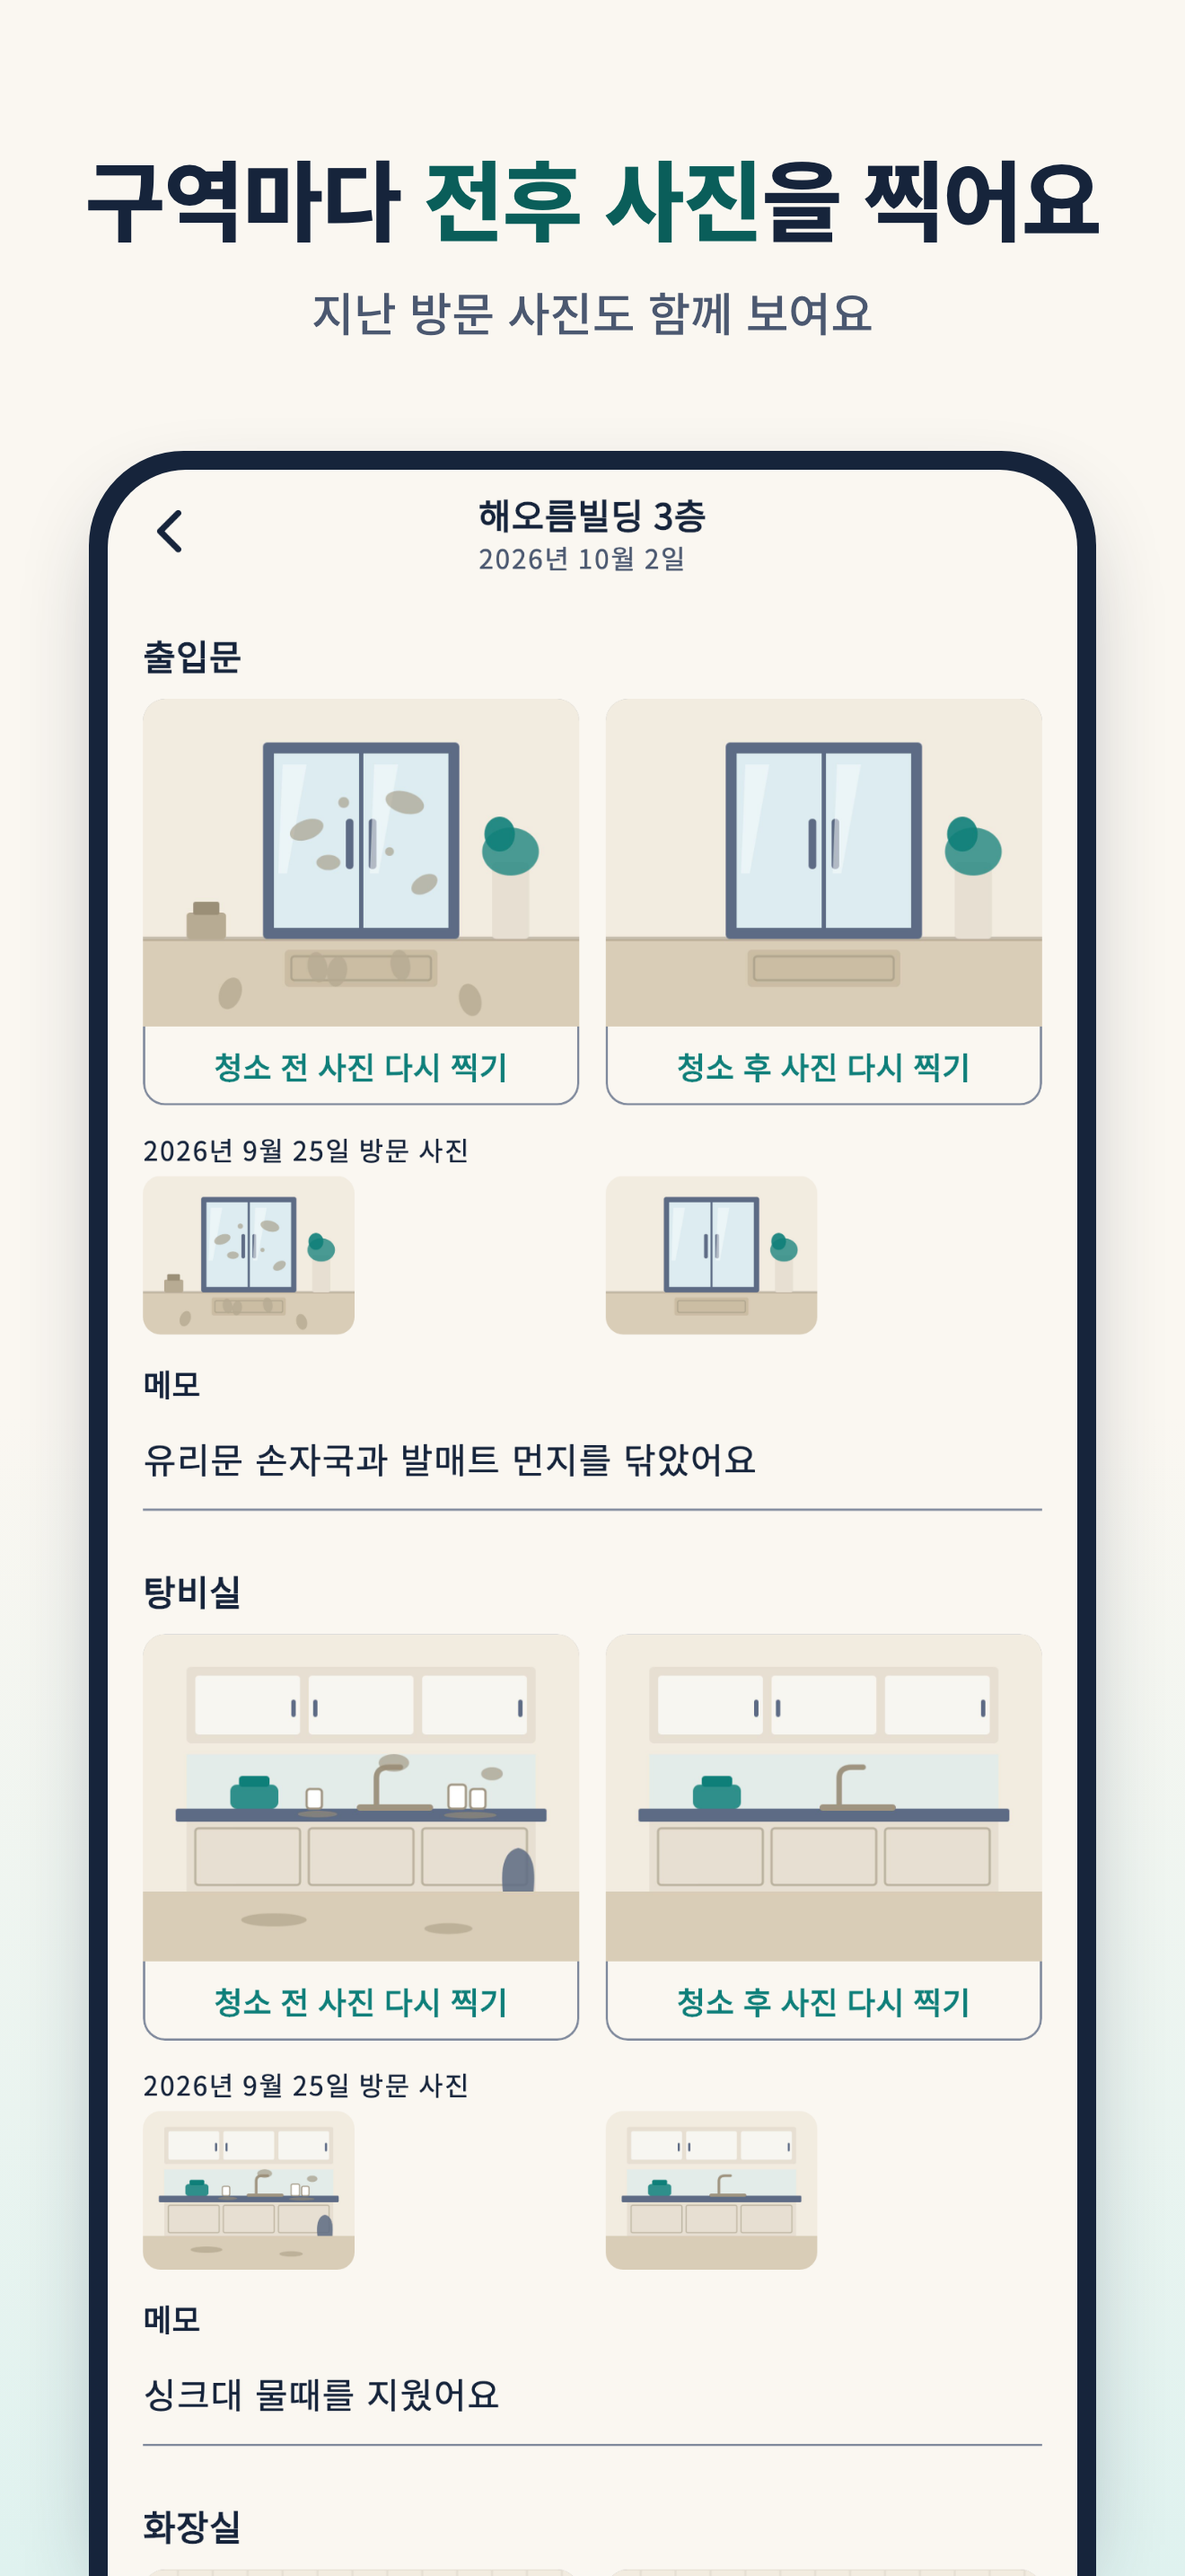
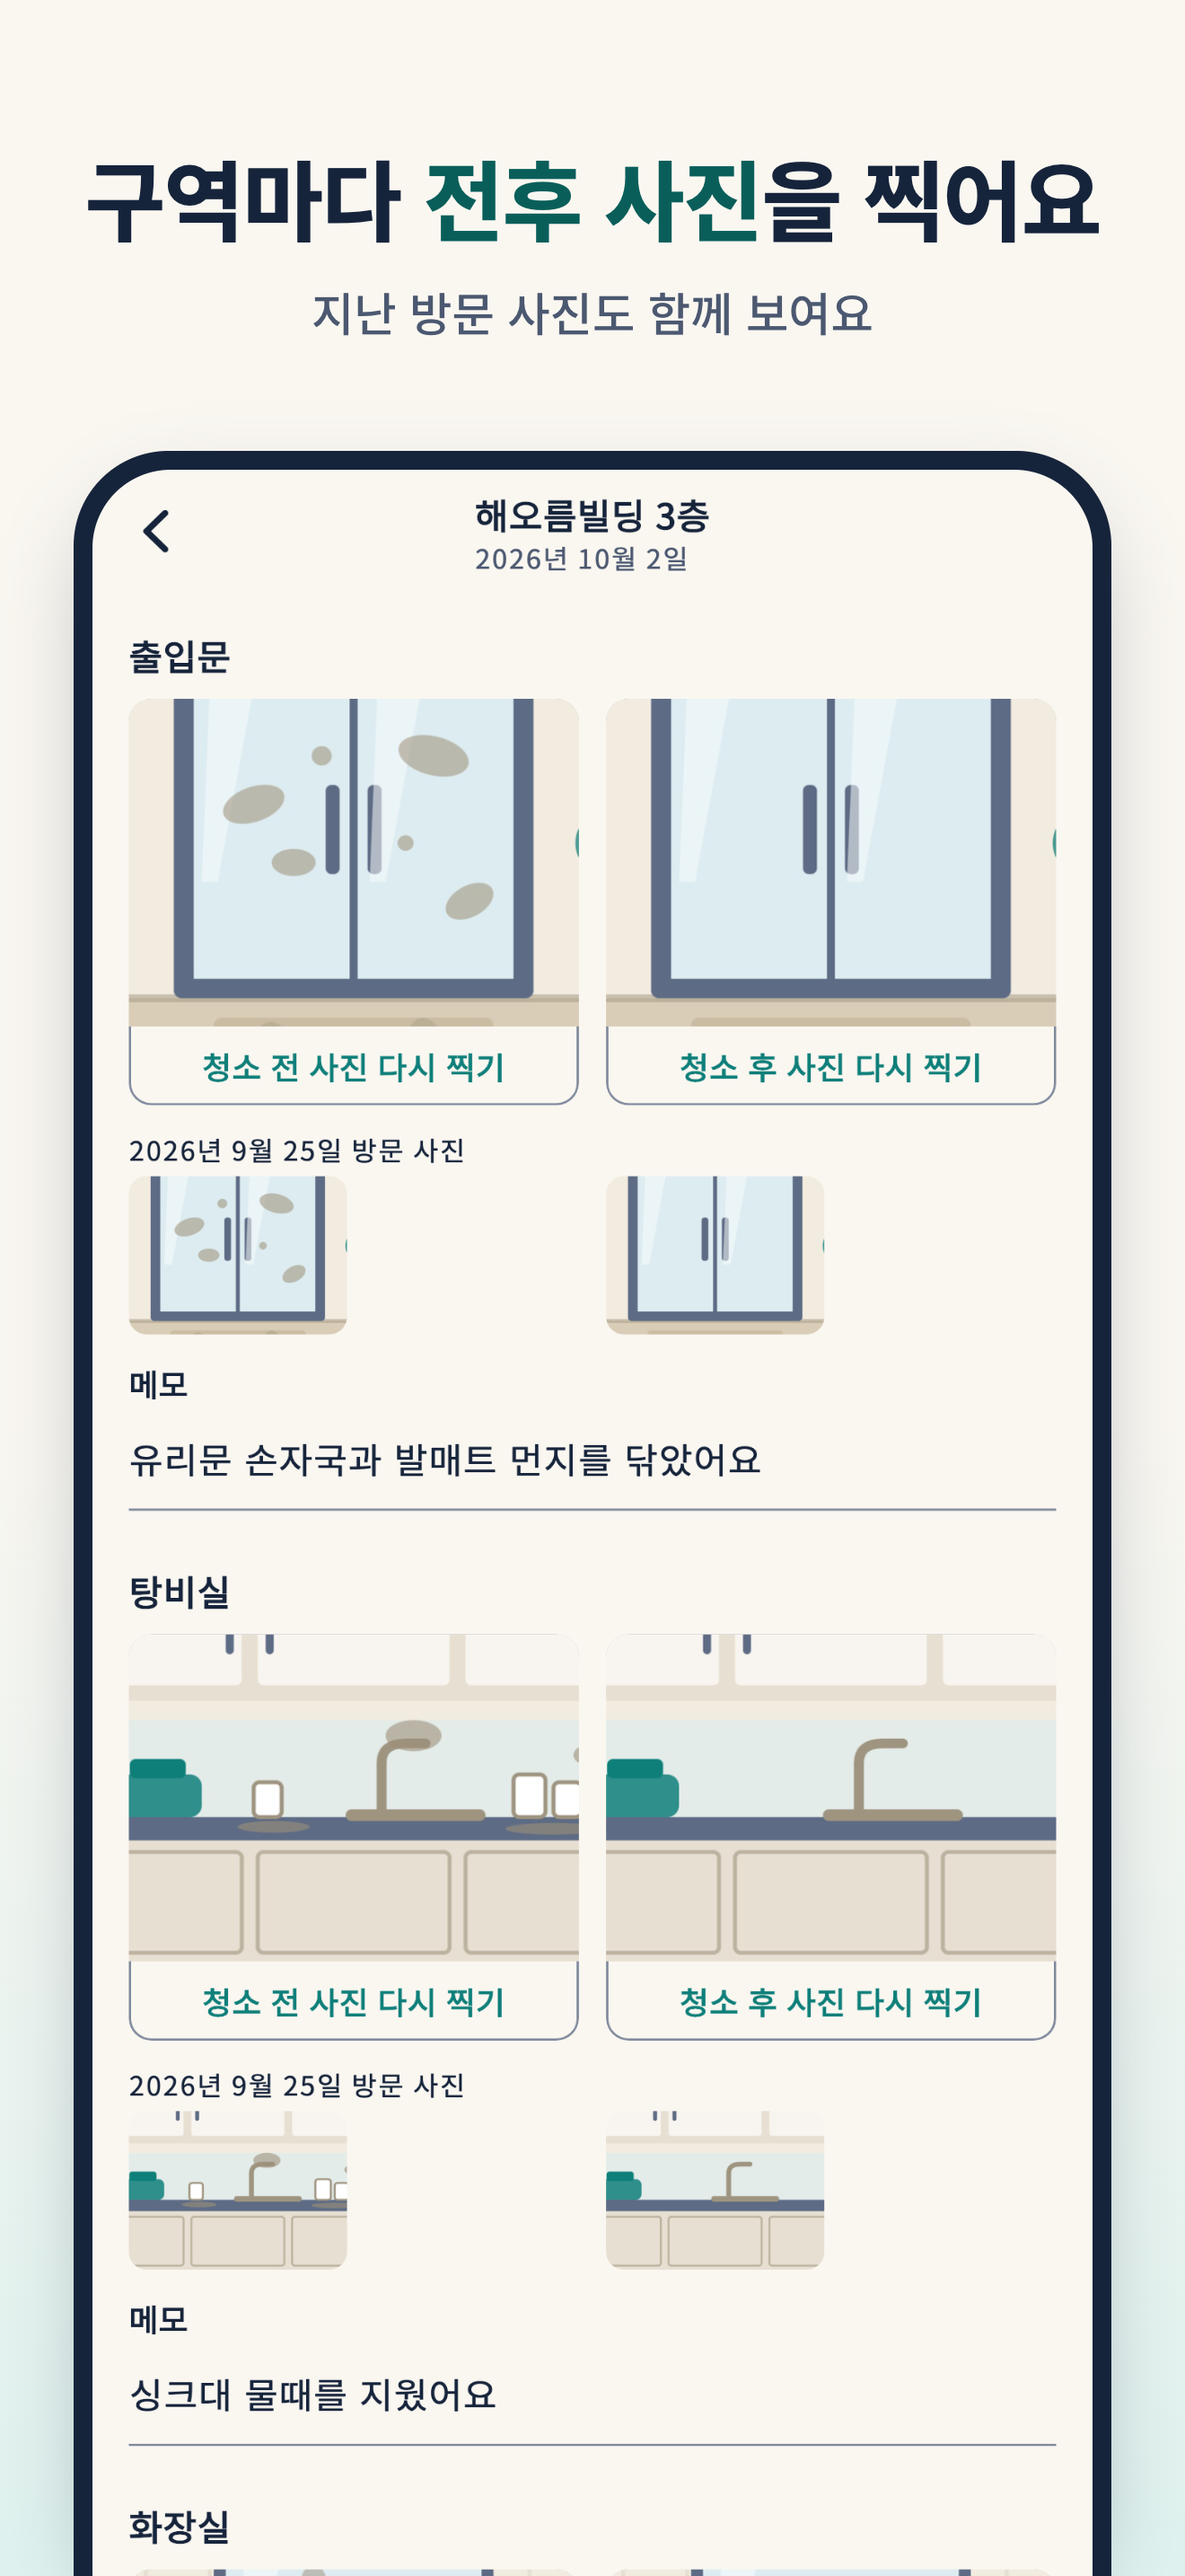
chore(store): render portrait fixture photos for the store screenshots
render.sh now shoots the fixture photos at 900x1200, as a phone camera
takes them, and the slice of the SVG keeps the middle of each room. The
feature graphic draws its two cards from photos.html in place of the
JPEGs, so it keeps the 4:3 room.

Only the capture and the report screenshots changed in content. The client
screenshots and the feature graphic differed by a few pixels of position
or less, so they stay as they were.

Refs #64

diff --git a/tool/store_screenshots/feature.html b/tool/store_screenshots/feature.html
@@ -87,11 +87,12 @@
         border: 2px solid var(--paper-edge);
         aspect-ratio: 4 / 3;
       }
-      .shot img {
+      /* The room comes from photos.html itself, in the 4:3 of the card, because the fixture JPEGs are portrait. */
+      .shot iframe {
         display: block;
         width: 100%;
         height: 100%;
-        object-fit: cover;
+        border: 0;
       }
       .lbl {
         position: absolute;
@@ -132,11 +133,17 @@
     </div>
     <div class="sheet">
       <div class="shot">
-        <img src="photos/entrance-before.jpg" alt="" />
+        <iframe
+          src="photos.html?scene=entrance&amp;state=before"
+          title=""
+          tabindex="-1"></iframe>
         <span class="lbl" id="before"></span>
       </div>
       <div class="shot">
-        <img src="photos/entrance-after.jpg" alt="" />
+        <iframe
+          src="photos.html?scene=entrance&amp;state=after"
+          title=""
+          tabindex="-1"></iframe>
         <span class="lbl after" id="after"></span>
       </div>
     </div>

diff --git a/tool/store_screenshots/photos.html b/tool/store_screenshots/photos.html
@@ -5,7 +5,9 @@
     <style>
       /*
        * The source of the fixture photos under photos/: one illustrated room per zone, before and after cleaning.
-       * render.sh opens it as photos.html?scene=<scene>&state=<before|after> at 1200x900 and converts the image to JPEG.
+       * render.sh opens it as photos.html?scene=<scene>&state=<before|after> at 900x1200 and converts the image to JPEG.
+       * The photos are portrait, as a phone camera takes them by default, so the slice of the SVG crops the sides of
+       * the 400x300 room and keeps its middle.
        * The rooms hold no person, no screen, and no document. The colors are the illustration tokens of web/index.html.
        */
       html,
